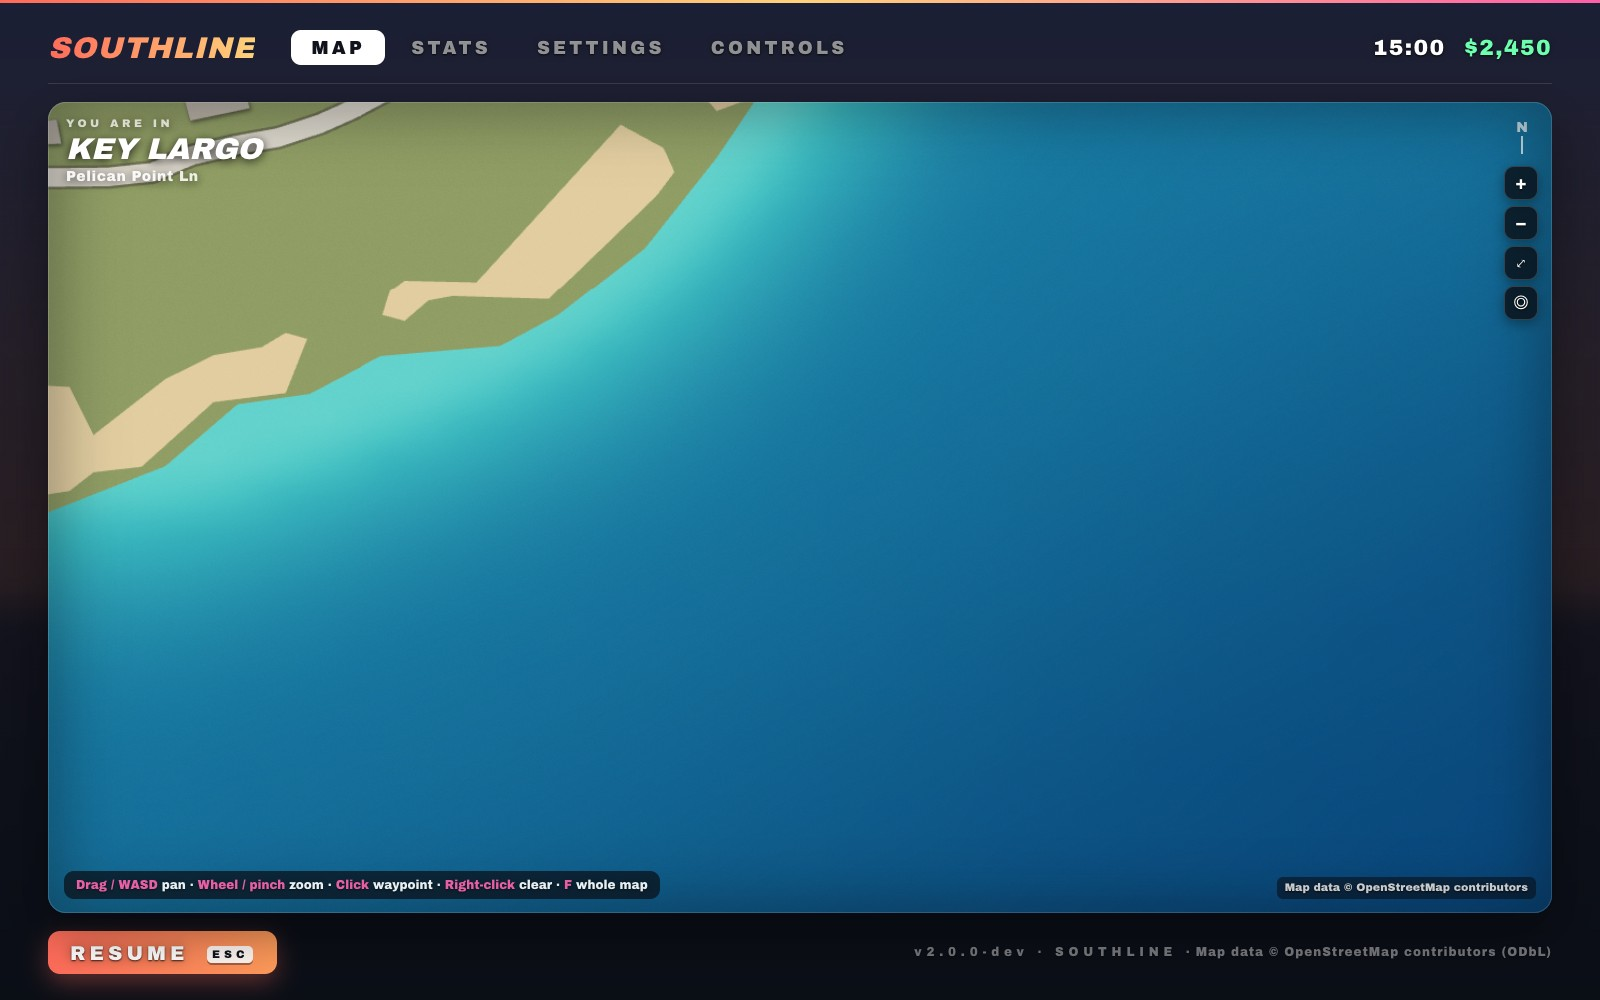
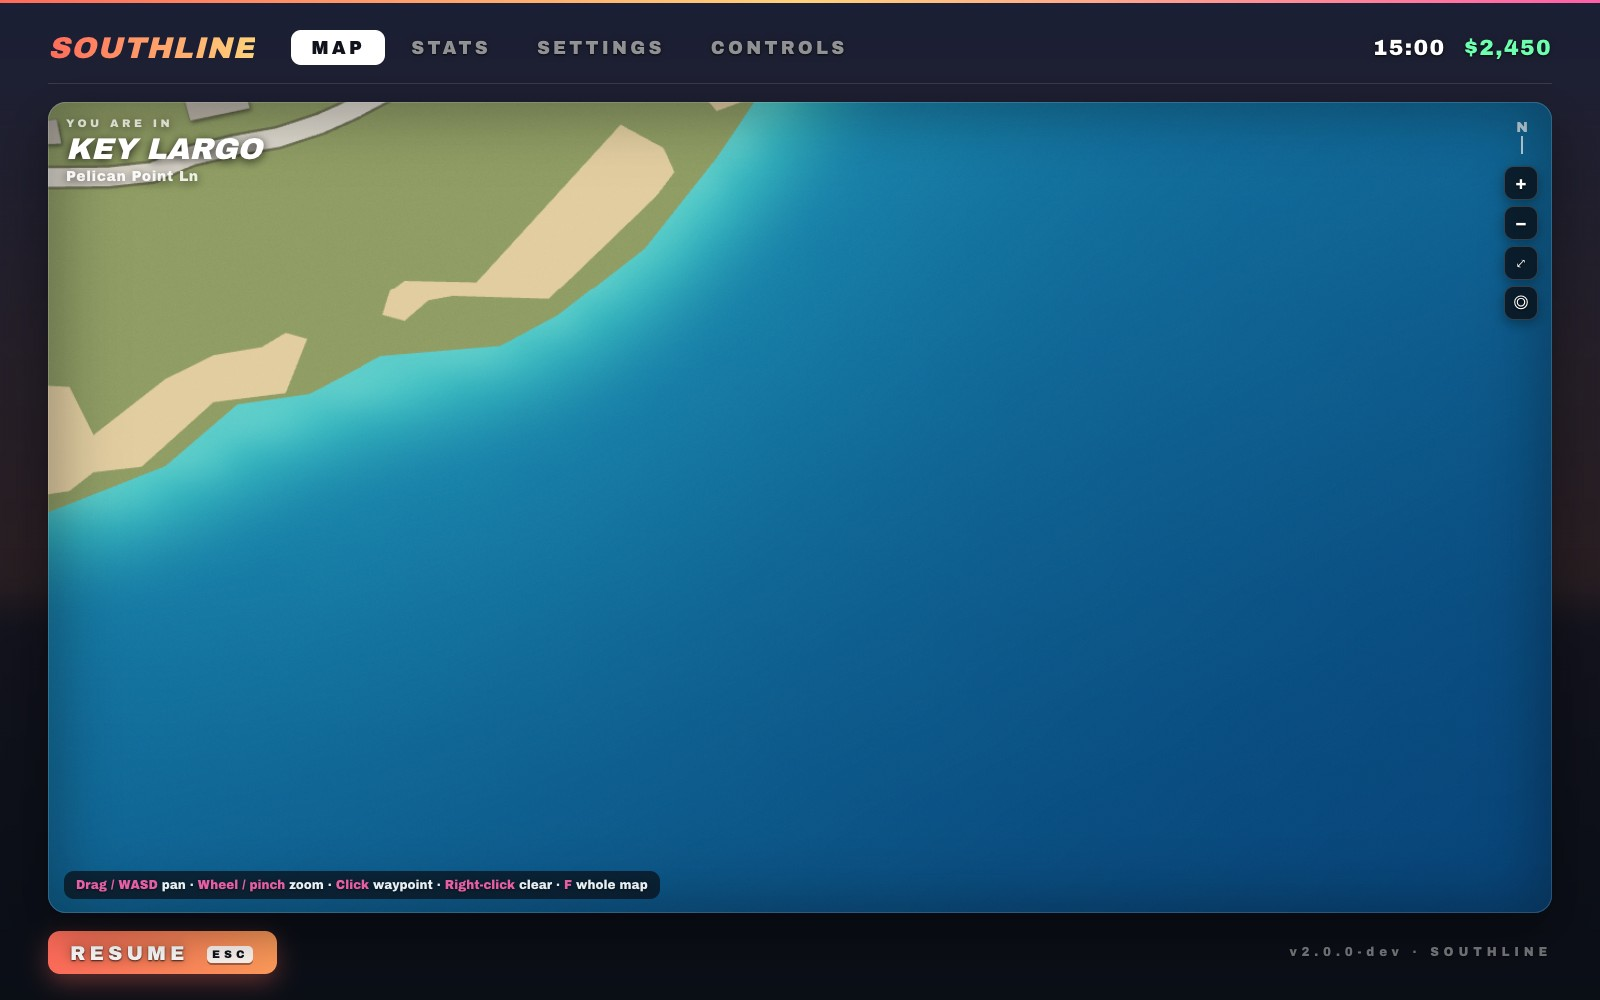
Map water: teal band for channels and bays, thresholded shallows; drop the OSM credit (item 9)
Lead review notes:
- Narrow channels were one flat light cyan. A third field (140 m) now gives a
  teal band. The turquoise shallows (45 m) are thresholded, so they stay at the
  sand edge. A channel now reads turquoise at the banks and teal / blue in the
  middle, on the minimap and the full map alike.
- No OSM data is in the runtime map anymore. map3 builds with MIAMI_NO_OSM=1,
  osmgeom.load() returns nothing, realRect is 10 m, and the only direct cache
  read (Julia Tuttle causeway) bails out. So the two "Map data (c)
  OpenStreetMap contributors" lines are removed from the pause map. The stale
  source / attribution strings in tools/osm/output.py's manifest are left to
  that tool's owner.

diff --git a/src/ui/mapRender.js b/src/ui/mapRender.js
@@ -17,6 +17,7 @@ export const MAP_COLORS = {
   sea: '#074176',
   shallow: '#238895',
   shelf: '#126f9d',      // mid-depth teal-blue of the shelf fade
+  lagoon: '#1f93b4',     // teal of channels, bays and the band just off the shallows
   surf: '#8fe2d6',       // palest wash right at the sand
   waterDeep: '#06365f',
   land: '#909d64',
@@ -86,7 +87,8 @@ const kindKey = (k) => (k && ROAD_STYLE[String(k).replace(/_link$/, '')] ? Strin
 // glow and a broad shelf fade), so the coast reads like the user's map references (turquoise right at the sand, fading
 // through teal into deep navy, no outline). The field and a world-anchored reef / sandbank noise live in world space, so
 // neighboring tiles and every zoom level agree.
-const SHORE_NEAR_M = 75;          // tight bright shallows right at the coast (blur sigma, meters)
+const SHORE_NEAR_M = 45;          // tight bright shallows right at the coast (blur sigma, meters)
+const SHORE_MID_M = 140;          // teal band: channels and narrow bays read as deeper than the sand edge
 const SHORE_FAR_M = 320;          // broad shelf fade into deep water
 const SHORE_MARGIN_M = 1000;      // > 3 x SHORE_FAR_M of open sea around the land in the shore raster
 const SHORE_FINE_M = 16;          // shore raster resolution (meters per px)
@@ -308,9 +310,10 @@ export function createMapRenderer(game) {
     const CW = W / 4, CH = H / 4, coarse = new Float32Array(CW * CH);
     for (let j = 0; j < H; j++) { const row = (j >> 2) * CW, src = j * W; for (let i = 0; i < W; i++) coarse[row + (i >> 2)] += mask[src + i] * 0.0625; }
     yield;
+    const mid = yield* boxBlur(mask.slice(), W, H, SHORE_MID_M / m - 0.5);
     const near = yield* boxBlur(mask, W, H, SHORE_NEAR_M / m - 0.5);
     const far = yield* boxBlur(coarse, CW, CH, SHORE_FAR_M / (4 * m) - 0.5);
-    return { near, far, x0, z0, W, H, CW, CH, m };
+    return { near, mid, far, x0, z0, W, H, CW, CH, m };
   }
   // advance the build by up to budgetMs; true once the fields are settled (built, or impossible -> plain sea)
   function shoreStep(budgetMs) {
@@ -339,21 +342,26 @@ export function createMapRenderer(game) {
     const m = Math.max(S / 160, F.m), pad = 2 * m;
     const ox = Math.floor((x0 - pad) / m) * m, oz = Math.floor((z0 - pad) / m) * m;
     const W = Math.ceil((x0 + S + pad - ox) / m), H = Math.ceil((z0 + S + pad - oz) / m);
-    const sea = hexRgb(MAP_COLORS.sea), shelf = hexRgb(MAP_COLORS.shelf), shallow = hexRgb(MAP_COLORS.shallow), surf = hexRgb(MAP_COLORS.surf), inlandC = hexRgb(MAP_COLORS.water);
+    const sea = hexRgb(MAP_COLORS.sea), shelf = hexRgb(MAP_COLORS.shelf), lagoon = hexRgb(MAP_COLORS.lagoon), shallow = hexRgb(MAP_COLORS.shallow), surf = hexRgb(MAP_COLORS.surf), inlandC = hexRgb(MAP_COLORS.water);
     const imO = new ImageData(W, H), imI = wantInland ? new ImageData(W, H) : null, o = imO.data, q = imI ? imI.data : null;
     let any = false;
     for (let j = 0; j < H; j++) for (let i = 0; i < W; i++) {
       const k = j * W + i, wx = ox + (i + 0.5) * m, wz = oz + (j + 0.5) * m;
       const fv = sampleF(F.far, F.CW, F.CH, (wx - F.x0) / (4 * F.m) - 0.5, (wz - F.z0) / (4 * F.m) - 0.5);
-      const nv = sampleF(F.near, F.W, F.H, (wx - F.x0) / F.m - 0.5, (wz - F.z0) / F.m - 0.5);
+      const gx = (wx - F.x0) / F.m - 0.5, gz = (wz - F.z0) / F.m - 0.5;
+      const nv = sampleF(F.near, F.W, F.H, gx, gz), mv = sampleF(F.mid, F.W, F.H, gx, gz);
       if (fv > 0.002 || nv > 0.002) any = true;
       // reef / sandbank breakup of the shelf, anchored to the world
       const nz = vnoise(wx / 1400, wz / 1400) * 0.65 + vnoise(wx / 430 + 17.3, wz / 430 - 5.1) * 0.35;
       const sf = Math.min(1, Math.min(1, fv * 3.4) * (0.55 + 0.7 * nz)), s1 = sf * sf * (3 - 2 * sf);
-      const tn = Math.min(1, nv * 2.2), tn2 = tn * tn * (3 - 2 * tn);
+      // depth ramp, deep to shallow: sea -> shelf (broad) -> lagoon teal (mid) -> turquoise -> pale surf (at the sand).
+      // The shallow terms are thresholded, so the middle of a channel stays teal / blue instead of flat turquoise.
+      const tm0 = Math.min(1, Math.max(0, (mv - 0.04) / 0.5)) * (0.8 + 0.4 * nz), tm = Math.min(1, tm0), sm = tm * tm * (3 - 2 * tm);
+      const tn = Math.min(1, Math.max(0, (nv - 0.07) / 0.43)), tn2 = tn * tn * (3 - 2 * tn);
       let c = mixC(sea, shelf, s1 * 0.95);
-      c = mixC(c, shallow, Math.min(1, tn2 * 0.9 + s1 * 0.12));
-      c = mixC(c, surf, Math.max(0, tn - 0.72) / 0.28 * 0.45);
+      c = mixC(c, lagoon, sm * 0.8);
+      c = mixC(c, shallow, tn2 * 0.92);
+      c = mixC(c, surf, Math.max(0, tn - 0.75) / 0.25 * 0.4);
       o[k * 4] = c[0]; o[k * 4 + 1] = c[1]; o[k * 4 + 2] = c[2]; o[k * 4 + 3] = 255;
       if (q) { const ci = mixC(inlandC, shallow, tn2 * 0.38); q[k * 4] = ci[0]; q[k * 4 + 1] = ci[1]; q[k * 4 + 2] = ci[2]; q[k * 4 + 3] = 255; }
     }

diff --git a/src/ui/hud.js b/src/ui/hud.js
@@ -251,12 +251,12 @@ export function createHUD(game) {
     <div class="ps-pages">
       <div class="ps-page ps-page-map on"><canvas class="ps-bigmap"></canvas><div class="ps-map-frame"></div><div class="ps-map-zoom"><button data-z="in" title="Zoom in (+)">+</button><button data-z="out" title="Zoom out (−)">−</button><button data-z="fit" title="Whole map (F)">⤢</button><button data-z="me" title="Centre on me (C)">◎</button></div>
         <div class="ps-map-legend"><b>Drag / WASD</b> pan · <b>Wheel / pinch</b> zoom · <b>Click</b> waypoint · <b>Right-click</b> clear · <b>F</b> whole map</div>
-        <div class="ps-map-loc"></div><div class="ps-map-attrib">Map data © OpenStreetMap contributors</div></div>
+        <div class="ps-map-loc"></div></div>
       <div class="ps-page ps-page-stats"><div class="ps-stats-grid"></div></div>
       <div class="ps-page ps-page-settings"><div class="ps-settings"></div></div>
       <div class="ps-page ps-page-controls"><div class="ps-controls"></div></div>
     </div>
-    <div class="ps-pause-foot"><button class="ps-resume">RESUME <kbd>ESC</kbd></button><span class="ps-foot-tag">v${VERSION} · ${BRAND.name.toUpperCase()} <i>· Map data © OpenStreetMap contributors (ODbL)</i></span></div>`;
+    <div class="ps-pause-foot"><button class="ps-resume">RESUME <kbd>ESC</kbd></button><span class="ps-foot-tag">v${VERSION} · ${BRAND.name.toUpperCase()}</span></div>`;
   root.appendChild(pause);
   const tabs = [...pause.querySelectorAll('.ps-tab')], pages = [...pause.querySelectorAll('.ps-page')];
   const bigmap = pause.querySelector('.ps-bigmap'), bctx = bigmap.getContext('2d');

diff --git a/tools/v2/mapui/sheet.py b/tools/v2/mapui/sheet.py
@@ -21,7 +21,7 @@ rows.append([lab(fit(user, W, H), "User's shot_10 (old build)"), lab(fit(Image.o
 rows.append([lab(fit(Image.open(D + 'map_before_bay.jpg').crop(crop), W, H), 'Before: Biscayne Bay'), lab(fit(Image.open(D + f'map_{tag}_bay.jpg').crop(crop), W, H), 'After: Biscayne Bay'),
              lab(fit(Image.open(D + 'map_before_fit.jpg').crop((480, 102, 1120, 912)), W, H), 'Before: whole map'), lab(fit(Image.open(D + f'map_{tag}_fit.jpg').crop((480, 102, 1120, 912)), W, H), 'After: whole map')])
 mc = (20, 760, 300, 960)
-rows.append([lab(fit(Image.open(D + 'map_before_mini_beach.jpg').crop(mc), W, H), 'Before: minimap, beach'), lab(fit(Image.open(D + f'map_{tag}_mini_beach.jpg').crop(mc), W, H), 'After: minimap, beach'),
+rows.append([lab(fit(Image.open(D + f'map_{tag}_naples03.jpg').crop(crop), W, H), 'After: Gulf coast, mid zoom'), lab(fit(Image.open(D + f'map_{tag}_naples1.jpg').crop(crop), W, H), 'After: turquoise edges, teal channel (close)'),
              lab(fit(Image.open(D + 'map_before_mini_naples.jpg').crop(mc), W, H), 'Before: minimap, Gulf coast'), lab(fit(Image.open(D + f'map_{tag}_mini_naples.jpg').crop(mc), W, H), 'After: minimap, Gulf coast')])
 S = Image.new('RGB', (W * 4 + 30, H * len(rows) + 10 * (len(rows) + 1)), (30, 32, 38))
 for j, row in enumerate(rows):
